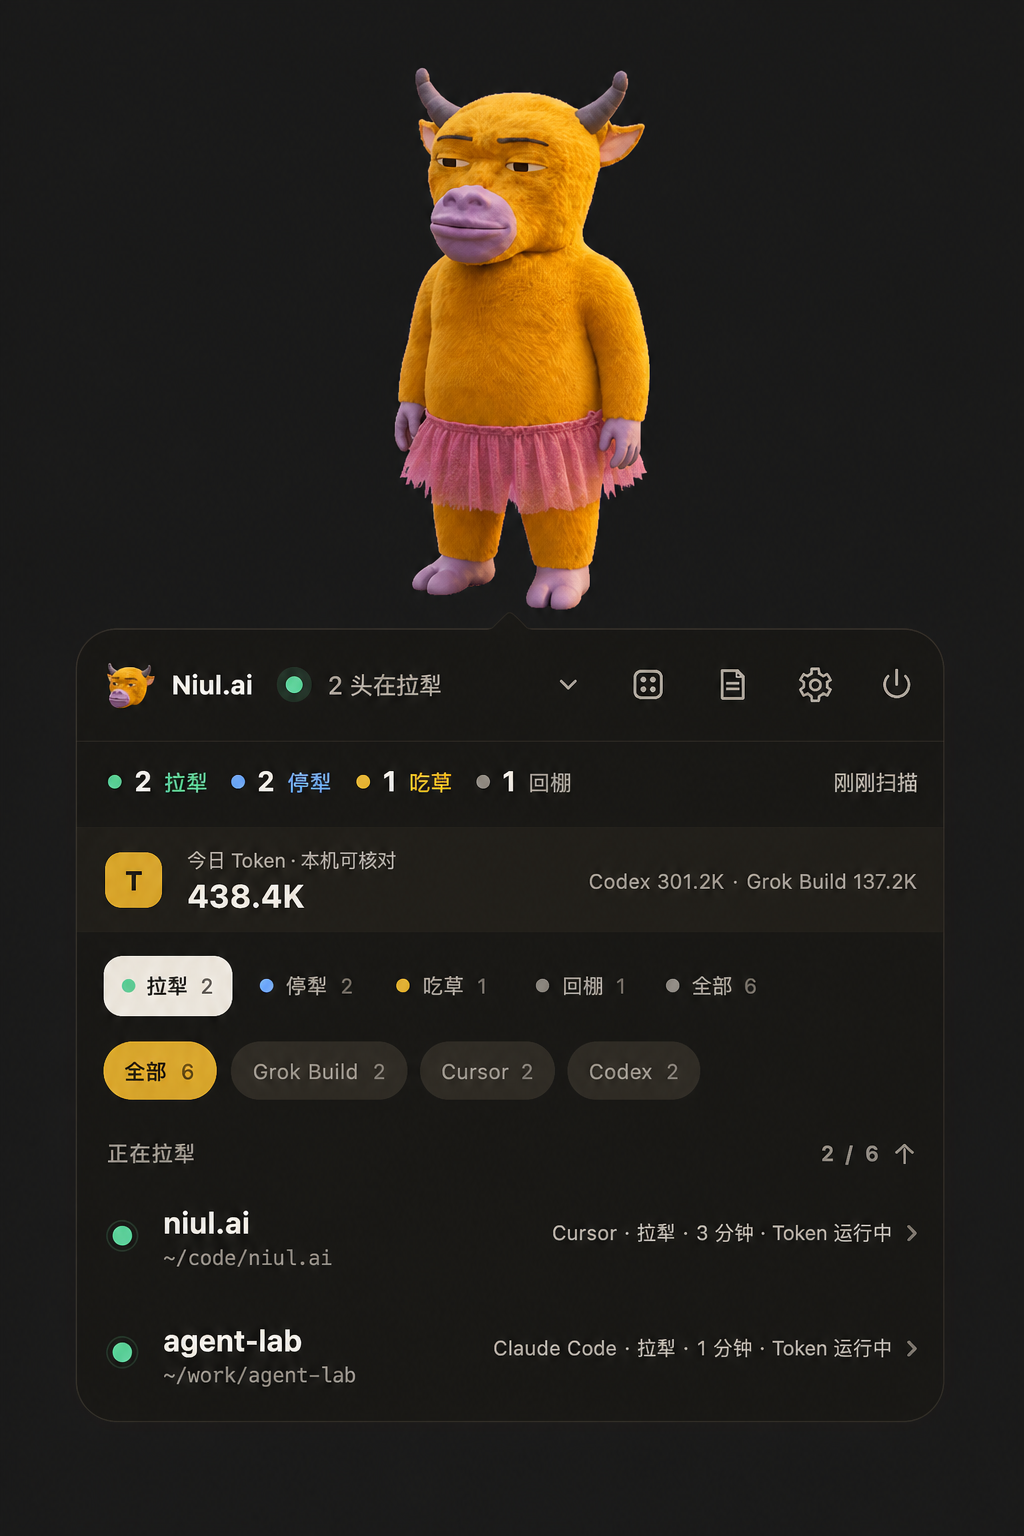
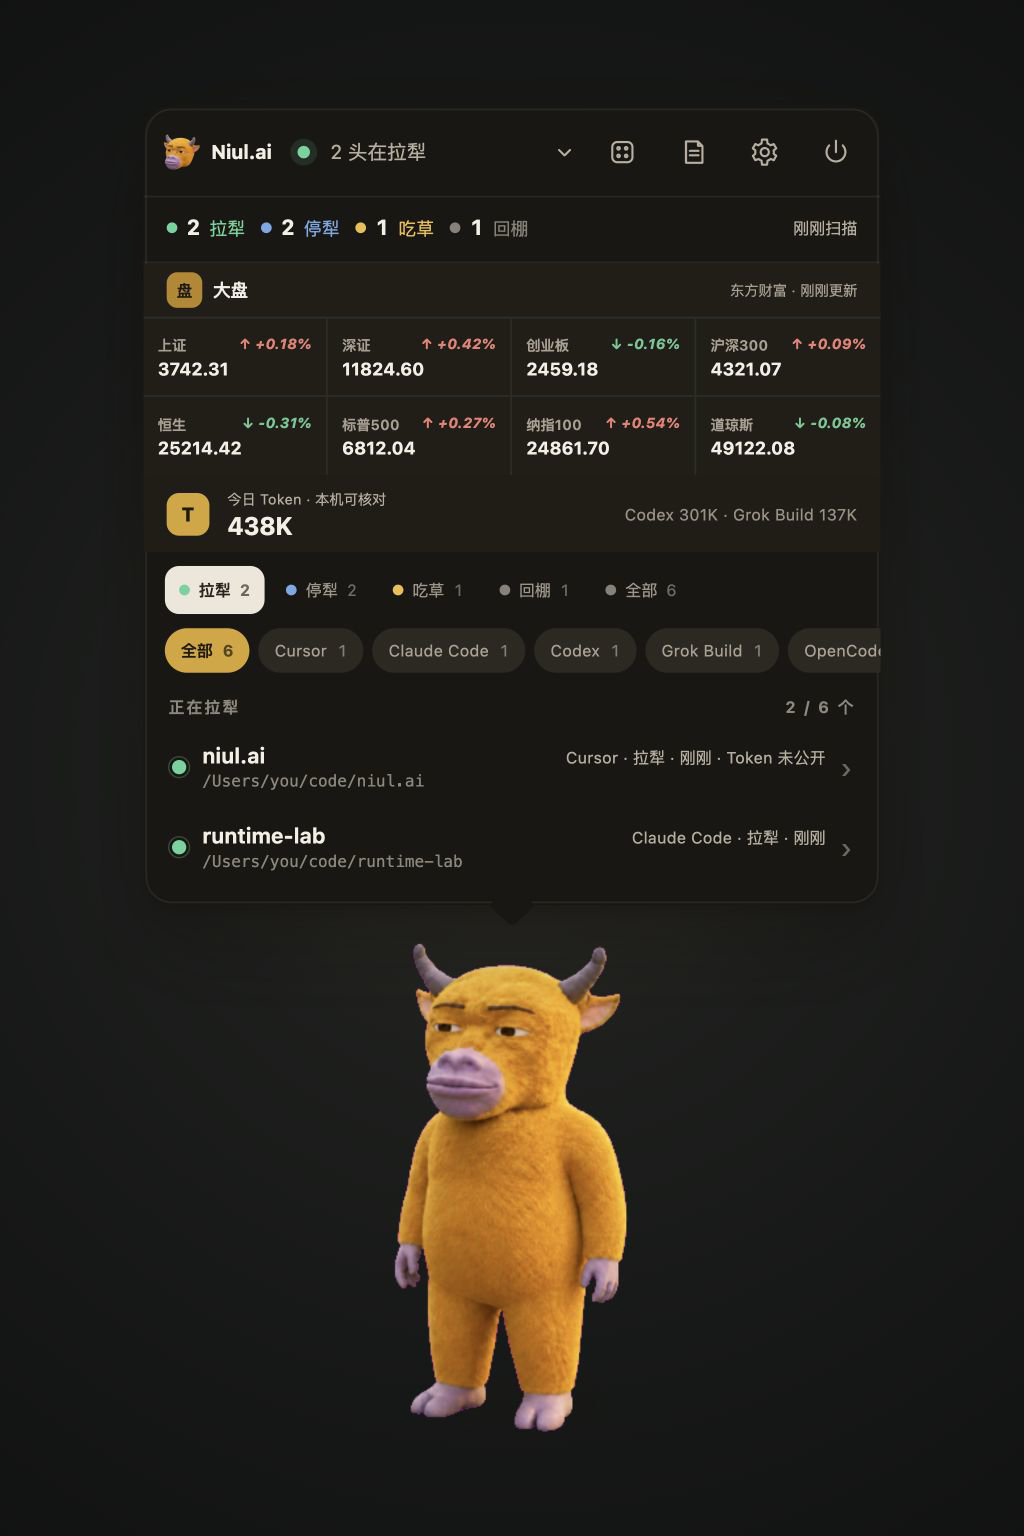
docs: showcase market indices in README

diff --git a/README.md b/README.md
@@ -5,11 +5,11 @@
 <h1 align="center">AI 开了一堆，谁在干活？让牛来帮你盯着。</h1>
 
 <p align="center">
-  一头住在 macOS 桌面上的小黄牛，替你看 Cursor、Claude Code、Codex、Grok Build 这些本地 AI。
+  一头住在 macOS 桌面上的小黄牛，替你看本地 AI 谁在干活，也顺便瞄一眼中、港、美大盘。
 </p>
 
 <p align="center">
-  它不写代码，只负责看谁在拉犁、谁在等你、谁又偷偷跑去吃草。
+  它不写代码，只负责看谁在拉犁、谁在等你、今天烧了多少 Token，以及大盘有没有动静。
 </p>
 
 <p align="center">
@@ -45,14 +45,14 @@
 
 ### 看一眼就全明白
 
-不知道每个 Agent 在跑什么？不知道它是在干活还是等你？不知道今天又烧了多少 token？
+不知道每个 Agent 在跑什么？不知道它是在干活还是等你？不知道今天又烧了多少 Token？懒得再开一个窗口看大盘？
 
-牛全知道，都写在头顶的气泡里。嫌乱，就只看还在干活的。
+牛全写在头顶的气泡里：Session 状态、Token 和 8 个主要指数。嫌乱，就只看还在干活的。
 
 <p align="center">
-  <img src="assets/niulai-session-overview.png" width="72%" alt="Niul.ai Session 状态、筛选与 Token 功能演示">
+  <img src="assets/niulai-session-overview.png" width="72%" alt="Niul.ai Session 状态、Token、筛选与中港美大盘功能演示">
   <br>
-  <sub>演示数据均为 Mock，不包含真实用户名、目录或 Token 记录。</sub>
+  <sub>Session、Token 与行情均为 Mock 演示数据，不包含真实用户名、目录或使用记录。</sub>
 </p>
 
 ### 点谁，就去找谁
@@ -73,9 +73,13 @@
 
 ### 顺便替你瞄一眼大盘
 
-展开气泡即可看到上证、深证、创业板、沪深300、恒生、标普500、纳指100和道琼斯。指数跨过设置的涨跌幅门槛时，牛会克制地说一句；Agent 完成或等你时仍然永远优先。
+展开气泡，就能直接看到上证、深证、创业板、沪深300、恒生、标普500、纳指100和道琼斯，不用自选，也不用再开一个行情窗口。
 
-第一期行情来自东方财富免 Key 接口，可能存在延迟。可以在设置里关闭大盘、关闭行情反应，或将灵敏度设为 `0.1%`、`0.5%`、`1%`。
+第一期行情来自东方财富免 Key 接口，可能存在延迟。指数跨过涨跌幅门槛时，牛会克制地说一句：
+
+> 今天风有点大，纳指100涨到 +0.5%。
+
+默认灵敏度是 `0.1%`，也可以改成 `0.5%` 或 `1%`；不想听它聊行情，就在设置里关闭反应或整个大盘。Agent 完成和等你始终优先，行情不会抢话。
 
 ### 一头牛不够，那就 Roll
 
@@ -115,7 +119,7 @@
 <details>
 <summary><b>English</b></summary>
 
-Niul.ai is a weirdly useful always-on-top macOS desktop pet. It watches local AI sessions across Cursor, Claude Code, Codex, Grok Build, and other runtimes, tells you who is working or waiting, focuses the right app when clicked, and keeps explicit local token usage local.
+Niul.ai is a weirdly useful always-on-top macOS desktop pet. It watches local AI sessions across Cursor, Claude Code, Codex, Grok Build, and other runtimes, shows explicit local token usage, and glances at eight major China, Hong Kong, and US indices through a no-key Eastmoney feed. Agent status always takes priority over market reactions.
 
 </details>
 
